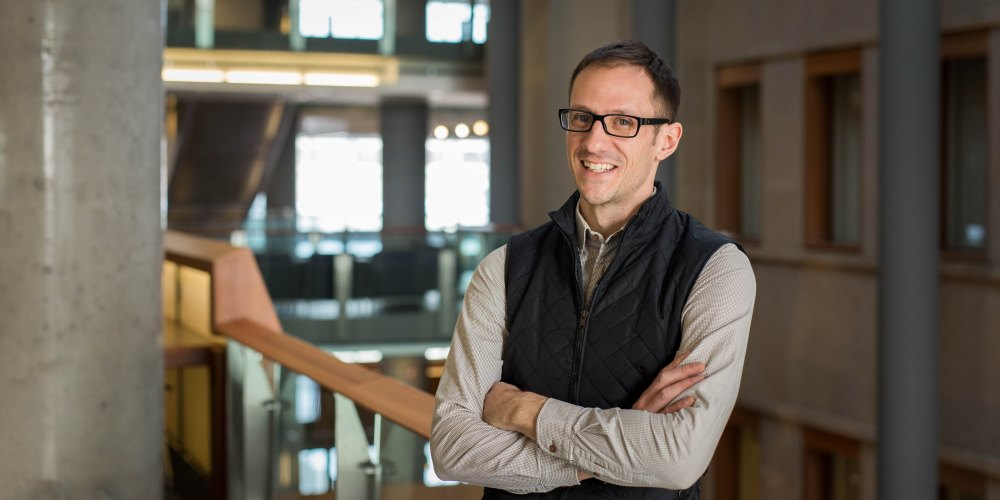
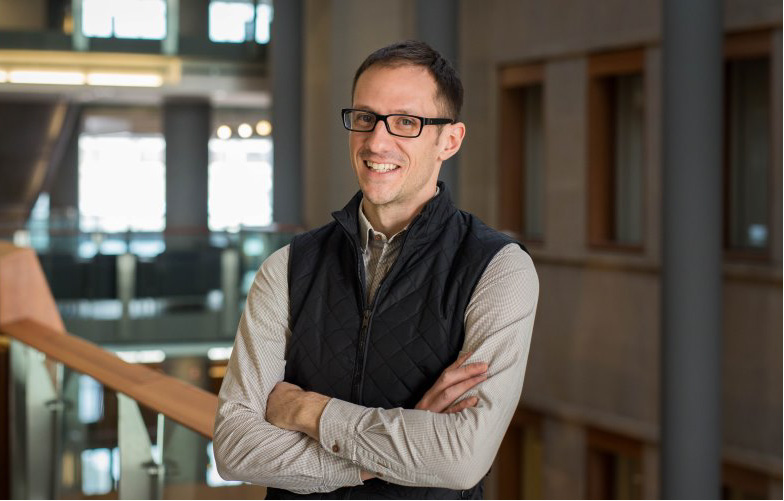
added jeremy

diff --git a/content/authors/gosselin/_index.md b/content/authors/gosselin/_index.md
@@ -1,17 +1,16 @@
 ---
 # Display name
-name: Pascal Audet
+name: Jeremy Gosselin
 
 # Username (this should match the folder name)
 authors:
-- admin
+- gosselin
 
 # Is this the primary user of the site?
-superuser: true
+superuser: false
 
 # Role/position
-role: Associate Professor of Geophysics &
-      University Research Chair
+role: PhD Candidate
 
 # Organizations/Affiliations
 organizations:
@@ -19,29 +18,29 @@ organizations:
   url: ""
 
 # Short bio (displayed in user profile at end of posts)
-bio: 
+bio: My research interests include Seismology, Inverse problems, and Tectonics.
 
 interests:
-- Geophysics
 - Seismology
+- Inverse problems
 - Tectonics
 - Subduction zones
 
 education:
   courses:
-  - course: PhD in Geophysics
-    institution: University of British Columbia
-    year: 2008
-  - course: MSc in Earth Sciences
-    institution: Universite du Quebec a Montreal
-    year: 2004
-  - course: BSc in Physics
-    institution: Universite de Montreal
-    year: 2002
+  - course: PhD in Earth Sciences
+    institution: University of Ottawa
+    year: 2021
+  - course: MSc in Earth and Ocean Sciences
+    institution: University of Victoria
+    year: 2016
+  - course: BSc in Physics and Earth Sciences
+    institution: University of Victoria
+    year: 2014
 
 awards:
-- 2018 Member of the College of New Scholars, Artists and Scientists, *Royal Society of Canada*
-- 2018 Young Scientist of the Year, *Canadian Geophysical Union*
+- 2018 Editor's Choice article, Canadian Geotechnical Journal
+- 2017 Vanier Canada Graduate Scholarship
 
 
 
@@ -52,21 +51,21 @@ awards:
 social:
 - icon: envelope
   icon_pack: fas
-  link: '#contact'  # For a direct email link, use "mailto:pascal.audet@uottawa.ca".
+  link: "mailto:jeremy.gosselin@uottawa.ca"
 # - icon: twitter
 #  icon_pack: fab
 #  link: https://twitter.com/GeorgeCushen
 - icon: google-scholar
   icon_pack: ai
-  link: https://scholar.google.ca/citations?user=Wt5i2qgAAAAJ&hl=en
-- icon: github
-  icon_pack: fab
-  link: https://github.com/paudetseis
+  link: https://scholar.google.com/citations?user=7fSYsPsAAAAJ&hl=en&oi=sra
+#- icon: github
+#  icon_pack: fab
+#  link: https://github.com/paudetseis
 # Link to a PDF of your resume/CV from the About widget.
 # To enable, copy your resume/CV to `static/files/cv.pdf` and uncomment the lines below.  
-- icon: cv
-  icon_pack: ai
-  link: files/Pascal_Audet_CV.pdf
+#- icon: cv
+#  icon_pack: ai
+#  link: files/Pascal_Audet_CV.pdf
 
 # Enter email to display Gravatar (if Gravatar enabled in Config)
 email: ""
@@ -74,7 +73,7 @@ email: ""
 # Organizational groups that you belong to (for People widget)
 #   Set this to `[]` or comment out if you are not using People widget.  
 user_groups:
-- Faculty
+- Grad Students
 ---
 
 
